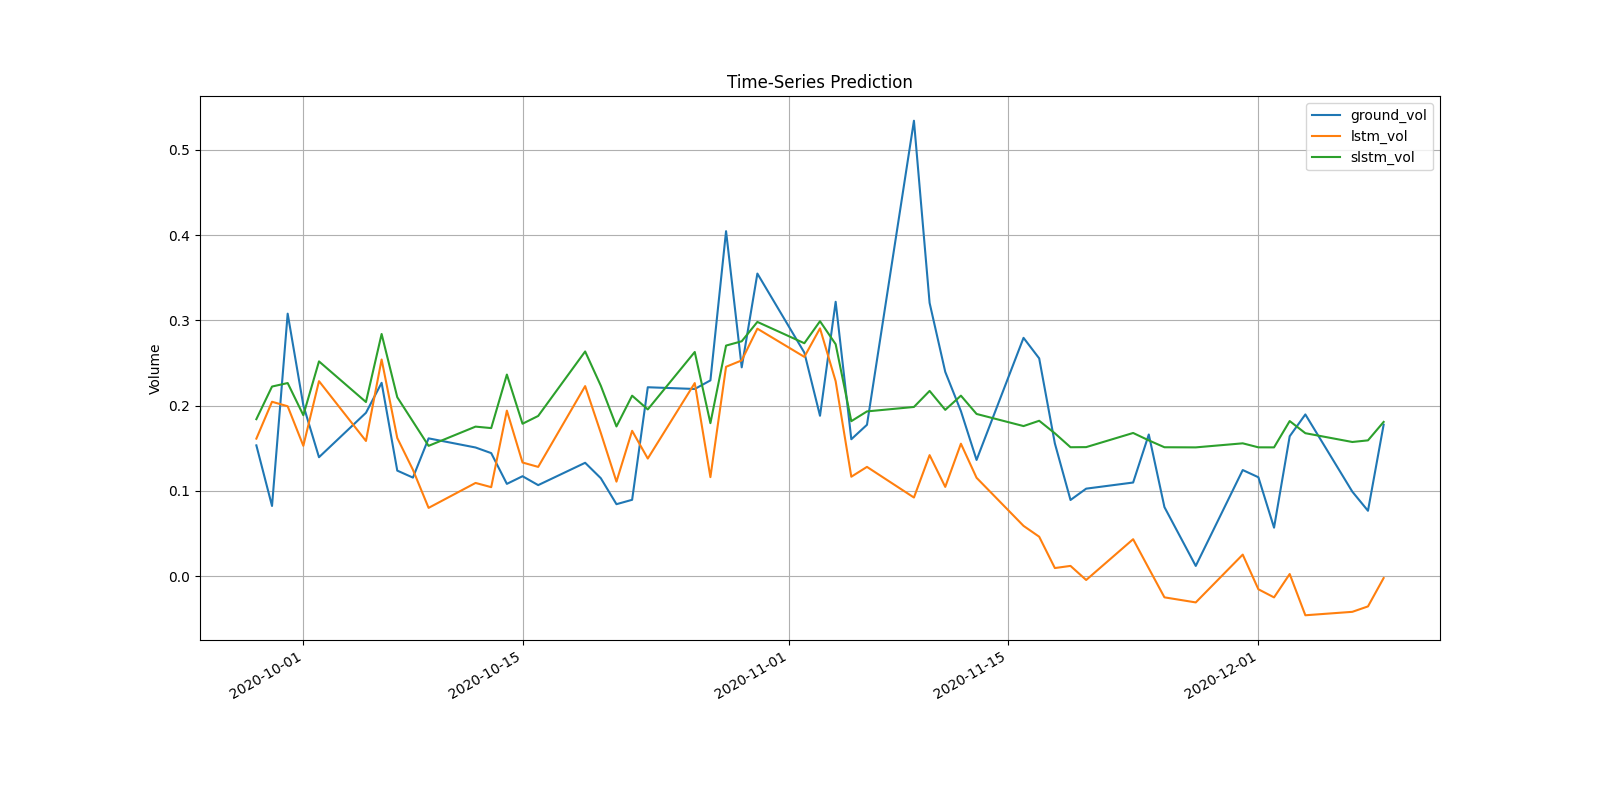
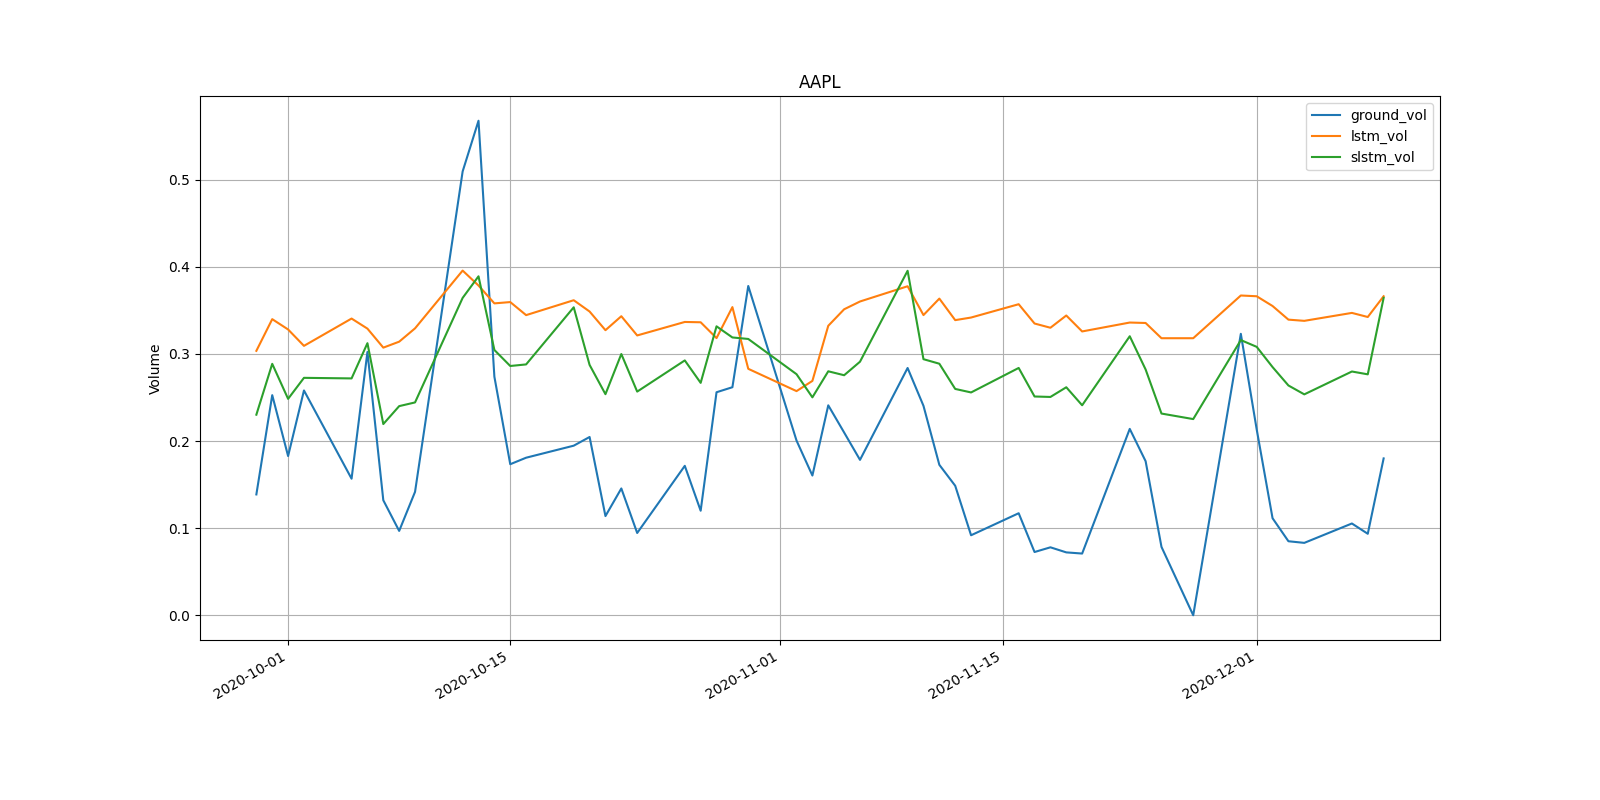
updated code

diff --git a/templates/simple.html b/templates/simple.html
@@ -1,25 +1,27 @@
+<img src="/image2.png" alt="image2">
+<img src="/image.png" alt="image">
 <table>
-    <thead>
-      <tr>
-        {% for col in column_names %}
-        <th>
-          {{col}}
-          <td></td>
-        </th>
-        {% endfor %}
-      </tr>
-    </thead>
-    <tbody>
-      {% for row in row_data %}
-      <tr>
-        {% for col, row_ in zip(column_names, row) %}
-        <td>{{row_}}</td>
+  <thead>
+    <tr>
+      {% for col in column_names %}
+      <th>
+        {{col}}
         <td></td>
-        {% endfor %}
-      </tr>
+      </th>
       {% endfor %}
-    </tbody>
-  </table>
+    </tr>
+  </thead>
+  <tbody>
+    {% for row in row_data %}
+    <tr>
+      {% for col, row_ in zip(column_names, row) %}
+      <td>{{row_}}</td>
+      <td></td>
+      {% endfor %}
+    </tr>
+    {% endfor %}
+  </tbody>
+</table>
 
-  <img src="/plot2.png" alt="my plot">
-  <img src="/plot.png" alt="my plot 2">
+<meta http-equiv="refresh" content="30" >
+

diff --git a/app.py b/app.py
@@ -1,33 +1,41 @@
-from flask import Flask, request, render_template, Response
+from flask import Flask, request, render_template, Response, send_file
 from flask_apscheduler import APScheduler
 from datetime import datetime, timedelta
 import warnings
 warnings.filterwarnings("ignore")
 import io
 from matplotlib.backends.backend_agg import FigureCanvasAgg as FigureCanvas
-from helper import  get_snnTorch_preds, scrape, create_figure
-
+from helper import get_snnTorch_preds, create_figure
+from scraper import Scraper
+import base64
+from PIL import Image
+import numpy as np
 
 app = Flask(__name__, template_folder='templates')
 scheduler = APScheduler()
 scrape_every = 30
 
-#hardcoded yfinance request params
-stock_name = 'SBUX'
+ticks = 'msft aapl goog'
+cols = ['Open','High','Low','Close','Adj Close','Volume']
+sc = Scraper()
+sc.set_tickers(ticks)
+sc.set_cols(cols)
+
 interval='1d'
 start_date='2019-12-11'
 end_date='2020-09-24'
 pred_end_date='2020-12-10'
 
+
+
 #plots ticker history
-@app.route('/plot.png', methods=("POST", "GET"))
-@scheduler.task(id = 'Plot PNG', trigger="interval", seconds=scrape_every)
-def plot_png():
-    df = scrape(stock_name, start_date, pred_end_date, interval)
+@app.route('/image.png', methods=("POST", "GET"))
+@scheduler.task(id = 'image', trigger="interval", seconds=scrape_every)
+def image():
+    df = sc.get_ticker_hist(sc._rand, start=start_date, end=pred_end_date, interval=interval)
     with app.app_context():
-        print('plotted')
         pdf, loss = get_snnTorch_preds(df)
-        fig = create_figure(pdf, col='forecast_vol')
+        fig = create_figure(pdf, col='forecast_vol', title=sc._rand)
         fig.savefig('ticker_forecasts.png')
         output = io.BytesIO()
         FigureCanvas(fig).print_png(output)
@@ -35,30 +43,31 @@ def plot_png():
 
 
 #plots predicted ticker prices
-@app.route('/plot2.png', methods=("POST", "GET"))
-@scheduler.task(id = 'Plot PNG 2', trigger="interval", seconds=scrape_every)
-def plot_png2():
-    df = scrape(stock_name, start_date, pred_end_date, interval)
+@app.route('/image2.png', methods=("POST", "GET"))
+@scheduler.task(id = 'image2', trigger="interval", seconds=scrape_every)
+def image2():
+    df = sc.get_ticker_hist(sc._rand, start=start_date, end=pred_end_date, interval=interval)
     with app.app_context():
-        data = request.form.get("req", "field: req was not provided")
-        print('plotted 2')
         ndf = df.loc[:pred_end_date]
-        fig = create_figure(ndf[['Volume']], col='ground_vol')
+        fig = create_figure(ndf[['Volume']], col='ground_vol', title=sc._rand)
         fig.savefig('ticker_history.png')
         output = io.BytesIO()
         FigureCanvas(fig).print_png(output)
         return Response(output.getvalue(), mimetype='image/png')
 
 
+
 #posts ticker history as table in flask app
 @app.route('/', methods=("POST", "GET"))
 @scheduler.task(id = 'Scheduled Task', trigger="interval", seconds=scrape_every)
 def scheduleTask():
-    df = scrape(stock_name, start_date, pred_end_date, interval)
+    sc.rand_tick()
+    print(sc._rand)
+    df = sc.get_ticker_hist(sc._rand, start=start_date, end=pred_end_date, interval=interval)
     with app.app_context():
         df['Date'] = df.index
         df.reset_index(drop=True, inplace=True)
-        df = df[['Date','Open','High','Low','Close','Adj Close','Volume']].sort_values(by='Date', ascending=False)
+        df = df[['Date',*cols]].sort_values(by='Date', ascending=False)
         return render_template('simple.html', column_names=df.columns.values, row_data=list(df.values.tolist()), zip=zip)
 
 
@@ -67,14 +76,3 @@ if __name__ == "__main__":
     scheduler.init_app(app)
     scheduler.start()
     app.run()
-
-    #https://finance.yahoo.com/chart/CL%3DF
-
-
-
-    '''start_date =  datetime.today() - timedelta(days=100) 
-    end_date = datetime.today() - timedelta(days=5)
-    pred_end_date = datetime.today() + timedelta(days=1)
-    start_date = start_date.strftime('%Y-%m-%d')
-    end_date = end_date.strftime('%Y-%m-%d')
-    pred_end_date = pred_end_date.strftime('%Y-%m-%d')'''

diff --git a/helper.py b/helper.py
@@ -14,14 +14,17 @@ from torch.autograd import Variable
 from sklearn.preprocessing import StandardScaler, MinMaxScaler
 from datetime import datetime
 import os
+import requests as requests
+
 
 spike_grad_lstm = surrogate.straight_through_estimator()
-num_epochs = 1000 #1000 epochs
+num_epochs = 600 #1000 epochs
 learning_rate = 0.001 #0.001 lr
 input_size = 5 #number of features
 hidden_size = 2 #number of features in hidden state
 num_layers = 1 #number of stacked lstm layers
 num_classes = 1 #number of output classes
+
 
 
 class LSTM(nn.Module):
@@ -84,18 +87,19 @@ class SLSTM(nn.Module):
         return torch.stack(out_rec)
 
 
-def get_snnTorch_preds(df, train=False):
+def get_snnTorch_preds(df, training=False):
+    splt = int(df.shape[0] * 0.8)
     X = df.iloc[:, :-1]
-    y = df.iloc[:, 5:6]
-
+    y = df.iloc[:, -1:]
     mm = MinMaxScaler()
     ss = StandardScaler()
     X_ss = ss.fit_transform(X)
     y_mm = mm.fit_transform(y)
-    X_train = X_ss[:200, :]
-    X_test = X_ss[200:, :]
-    y_train = y_mm[:200, :]
-    y_test = y_mm[200:, :]
+
+    X_train = X_ss[:splt, :]
+    X_test = X_ss[splt:, :]
+    y_train = y_mm[:splt, :]
+    y_test = y_mm[splt:, :]
 
     X_train_tensors = Variable(torch.Tensor(X_train))
     X_test_tensors = Variable(torch.Tensor(X_test))
@@ -112,7 +116,7 @@ def get_snnTorch_preds(df, train=False):
     criterion = torch.nn.MSELoss()
     scriterion = torch.nn.MSELoss()
 
-    if not train and os.path.exists('model/lstm.pt'):
+    if not training and os.path.exists('model/lstm.pt'):
         lstm.load_state_dict(torch.load('model/lstm.pt'))
         slstm.load_state_dict(torch.load('model/slstm.pt'))
     else:
@@ -141,29 +145,22 @@ def get_snnTorch_preds(df, train=False):
     sloss = scriterion(syhat, y_test_tensors)
     yhat = yhat.flatten().detach().numpy()
     syhat = syhat.flatten().detach().numpy()
+    pdf = pd.DataFrame({'ground_vol': ytst, 'lstm_vol': yhat, 'slstm_vol': syhat}, index=df.index.tolist()[splt:])
 
-    pdf = pd.DataFrame({'ground_vol': ytst, 'lstm_vol': yhat, 'slstm_vol': syhat}, index=df.index.tolist()[200:])
     torch.save(lstm.state_dict(), 'model/lstm.pt')
     torch.save(slstm.state_dict(), 'model/slstm.pt')
     return pdf, (loss,sloss)
 
 
-
-def scrape(stock_name, start_date, pred_end_date, interval):
-    prices = yf.download(tickers=stock_name, start=start_date, end=pred_end_date, interval=interval).round(3)
-    return prices
-
-
-
-def create_figure(pdf, col):
+def create_figure(pdf, col, title):
     ax = pdf.plot(figsize=(16,8))
     ax.set_ylabel('Volume')
     plt.sca(ax)
     if col=='ground_vol':
         plt.axvline(x = datetime.strptime('2020-09-24', '%Y-%m-%d').date(), c='r', linestyle='--') #size of the training set
-    plt.title('Time-Series Prediction')
+    plt.title(title)
     plt.grid()
-    
+    plt.close()
     fig = ax.get_figure()
     return fig
 

diff --git a/scraper.py b/scraper.py
@@ -1,0 +1,47 @@
+from datetime import datetime
+import os
+import requests as requests
+import matplotlib
+matplotlib.use('agg')
+import matplotlib.pyplot as plt
+import numpy as np
+import pandas as pd
+import json
+import yfinance as yf
+import random
+from datetime import datetime, timedelta
+
+
+class Scraper:
+    _tm = str(datetime.today() + timedelta(days=1))
+    _1yr = str(datetime.today() - timedelta(days=365))
+
+    def __init__(self):
+        self._t = None
+        self._names = None
+        self._cols = None
+    
+    def set_cols(self, cols):
+        self._cols = cols
+
+    def wrap_df(self, df):
+        df = df.drop(['Dividends','Stock Splits'], axis=1)[['Open','High','Low','Close','Adj Close','Volume']]
+        return df
+
+    def rand_tick(self):
+        self._rand = random.choice(self._names)
+
+    def get_tickers(self):
+        return self._names
+
+    def set_tickers(self, tick_str):
+        self._names = tick_str.upper().split(' ')
+        self._t = yf.Tickers(tick_str)
+
+    def get_ticker_hist(self, tick, period='', start=_1yr, end=_tm, interval='1d'):
+        if period:
+            return self.wrap_df(self._t.tickers[tick].history(period=period, interval=interval, auto_adjust=False, rounding=True))
+        return self.wrap_df(self._t.tickers[tick].history(start=start, end=end, interval=interval, auto_adjust=False, rounding=True))
+
+    def get_ticker_info(self, tick):
+        return self._t.tickers[tick].info
